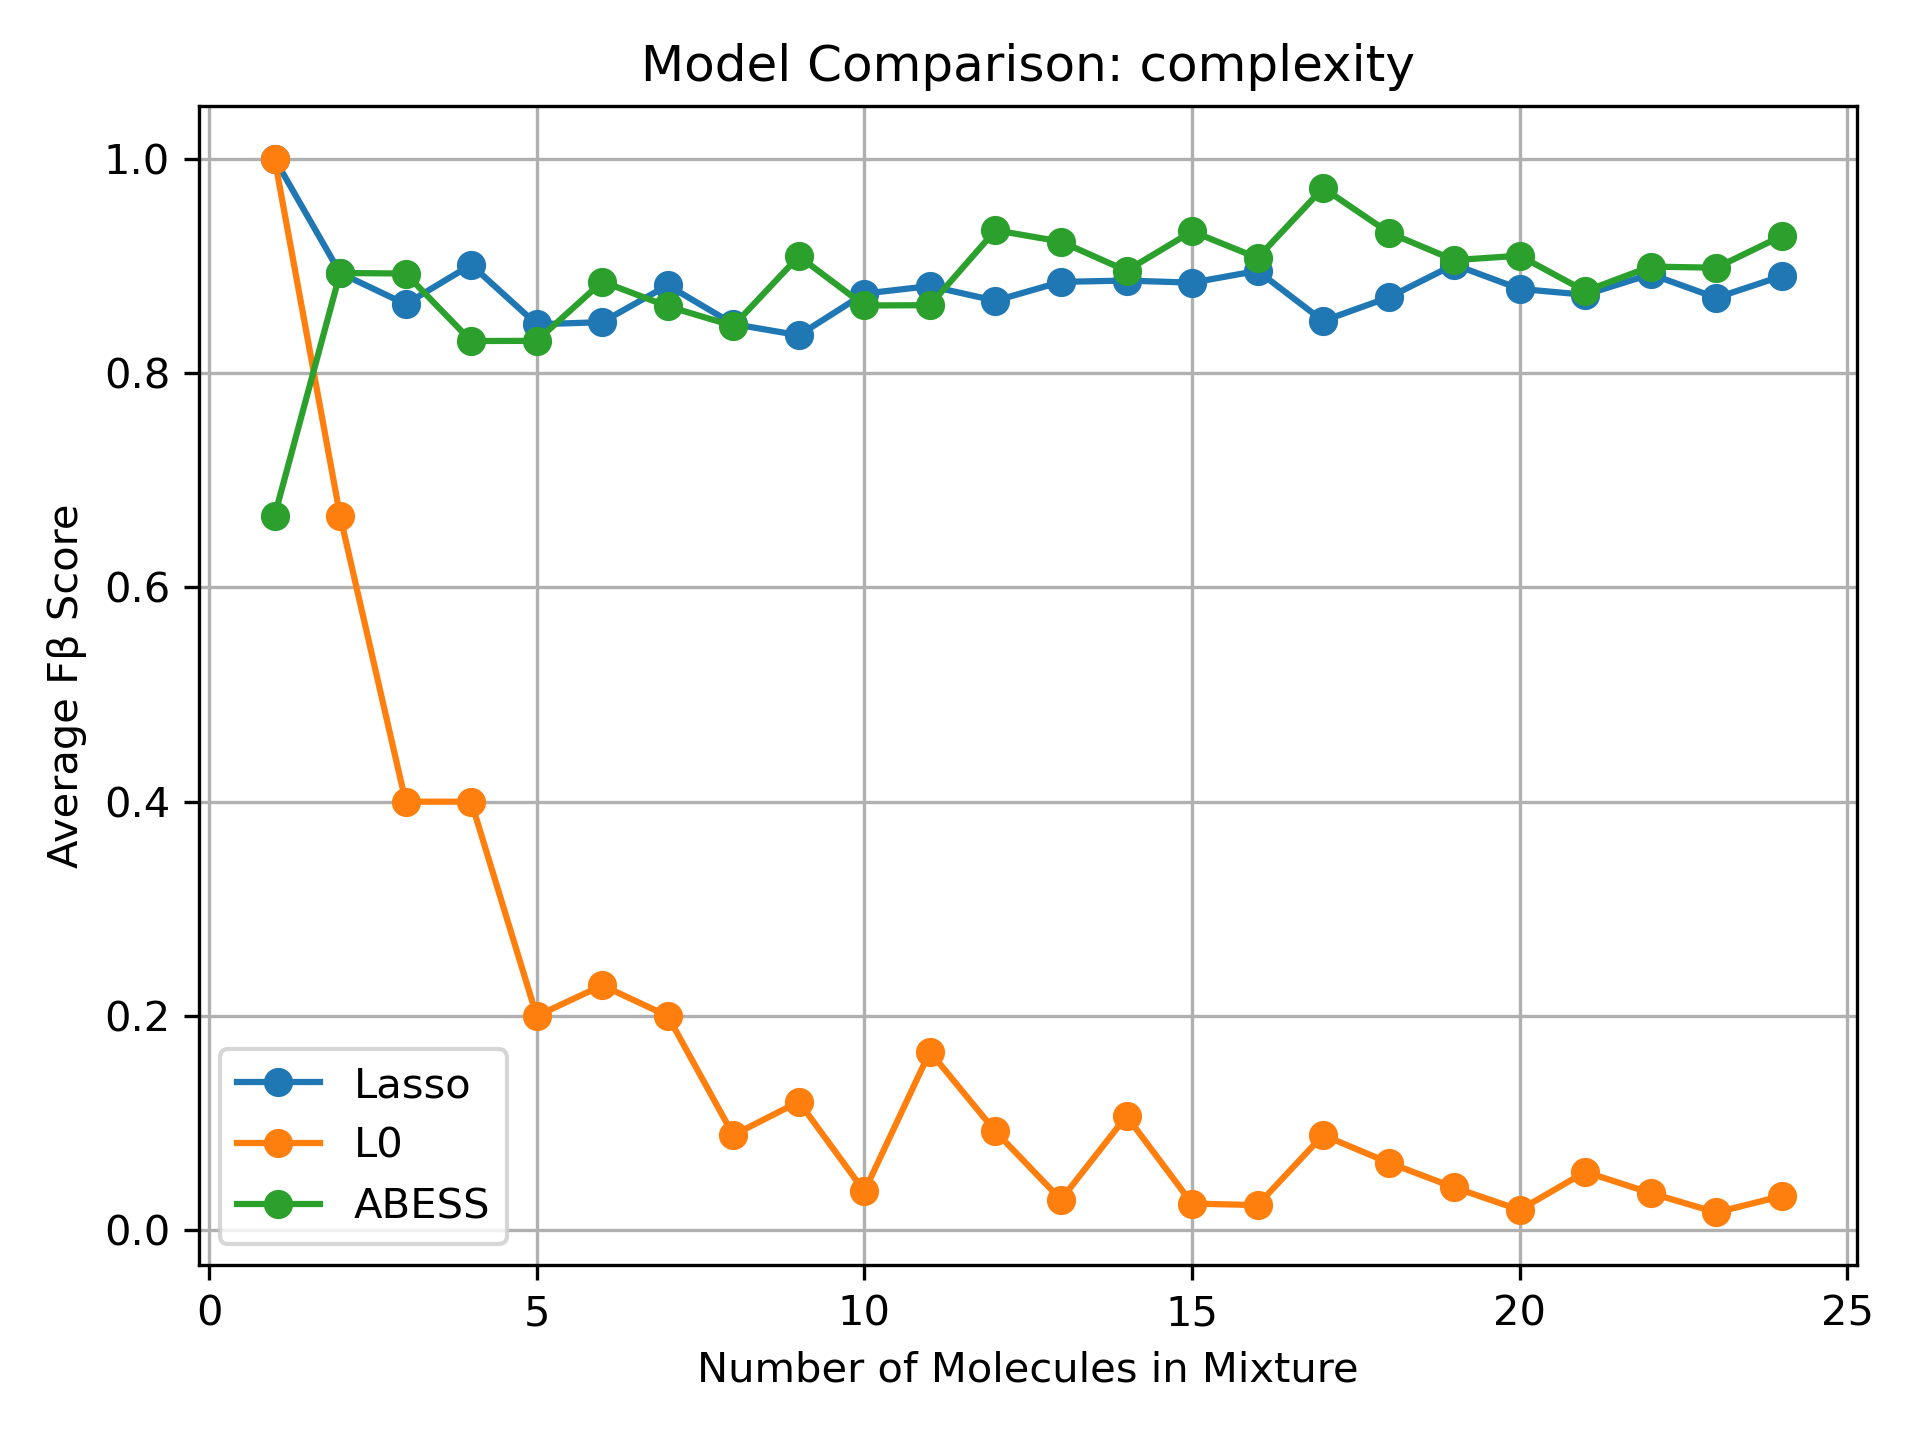
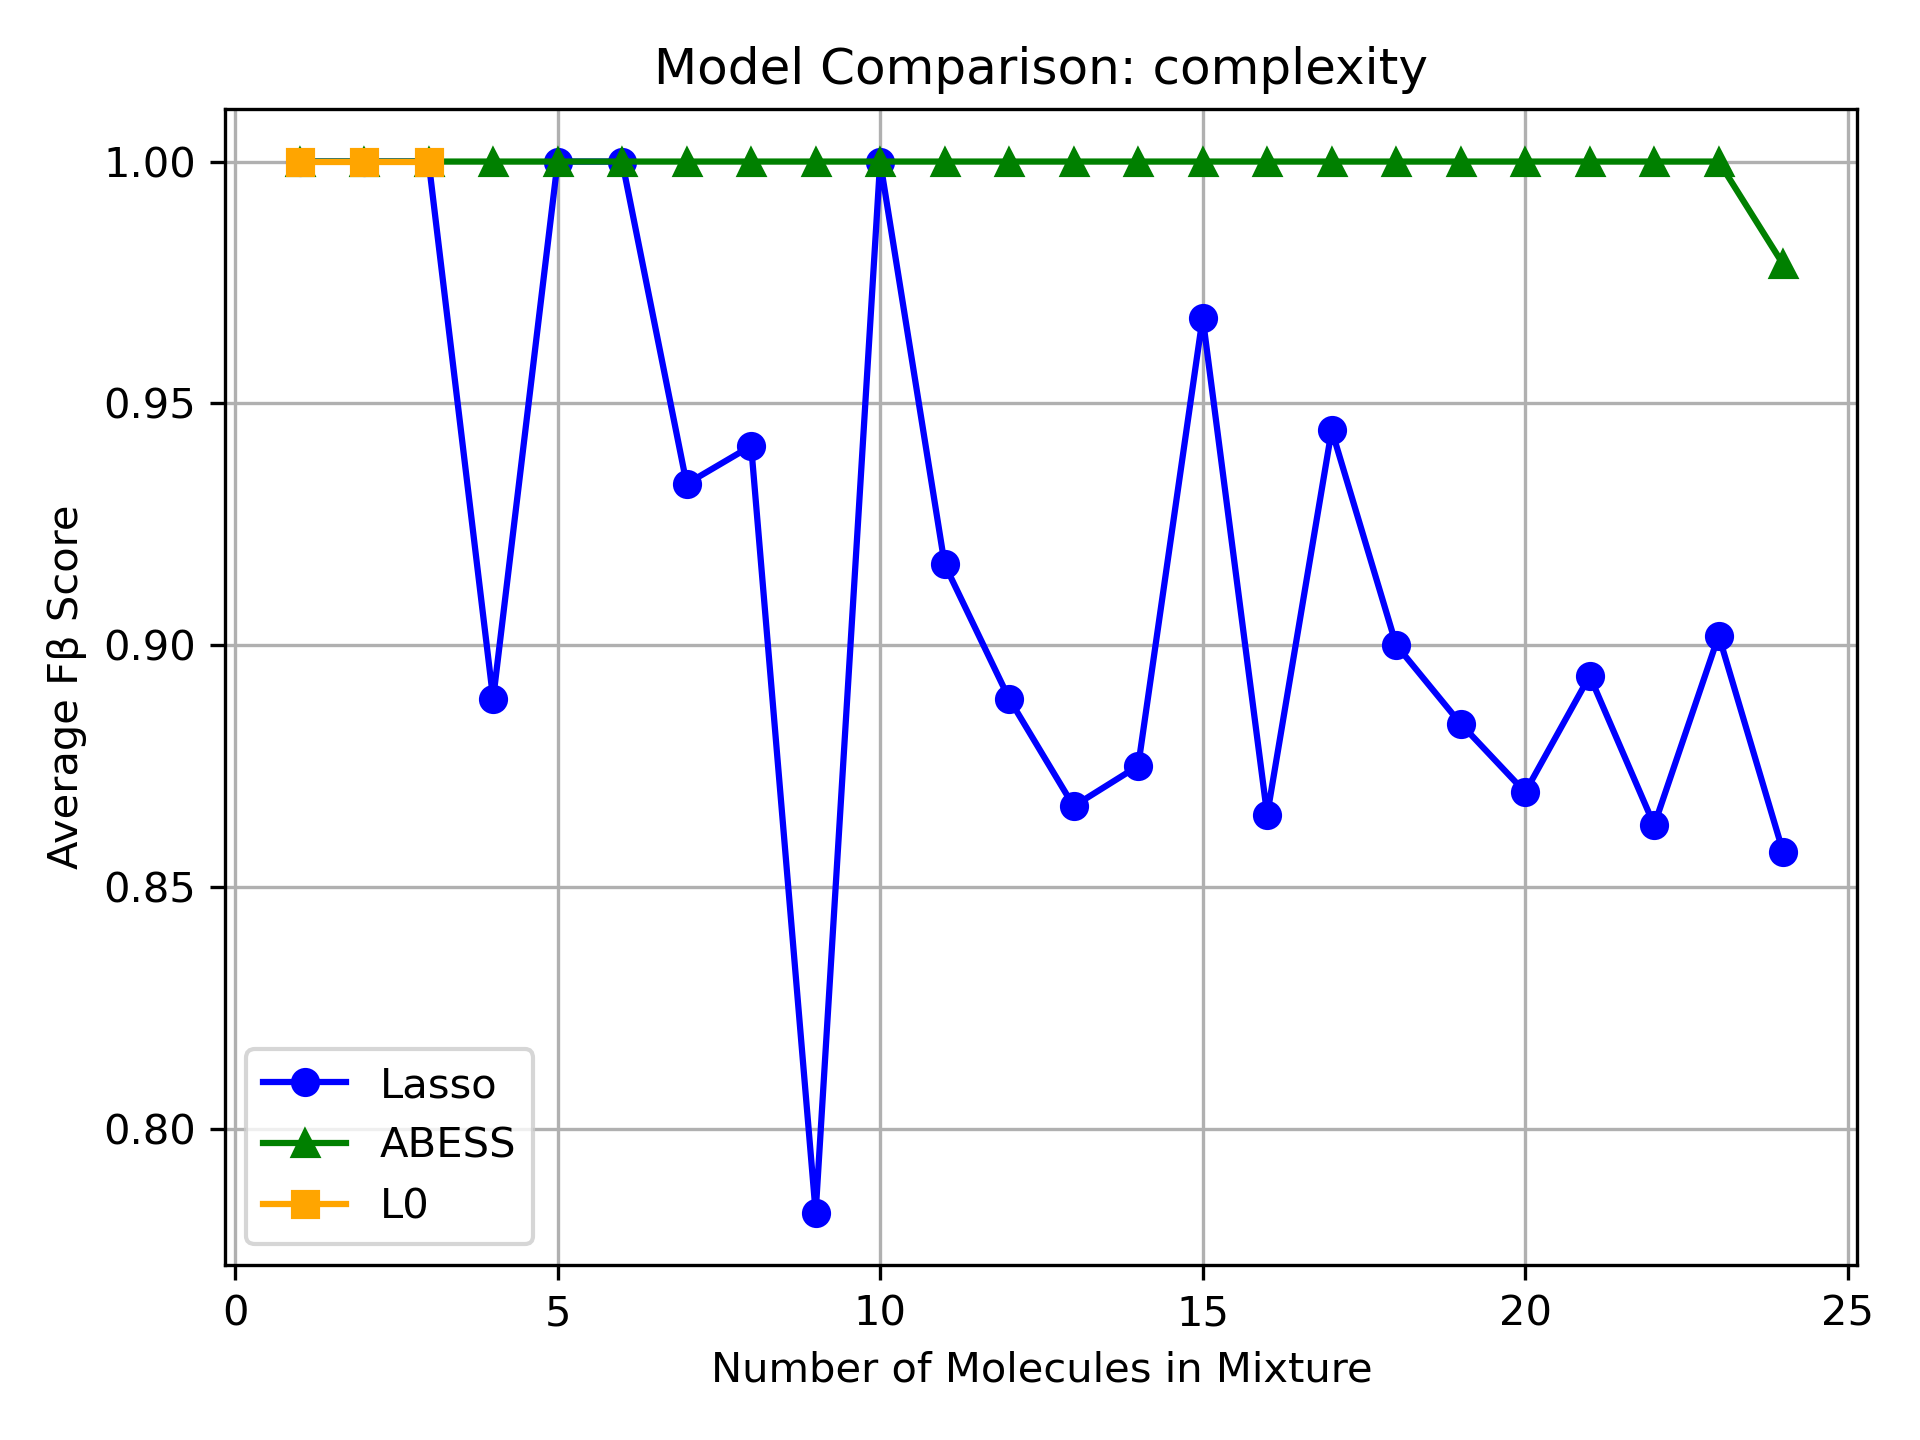
plot updates

diff --git a/Master_Test.py b/Master_Test.py
@@ -60,11 +60,10 @@ def safe_ABESS(A, b, threshold=1e-4):
     return [i for i, coef in result if abs(coef) > threshold]
 
 
-def run_single_trial(func, A, mode, x, SNR, COMPLEXITY, KNOWNPROPORTION):
+def run_single_trial(func, A, mode, x, COMPLEXITY):
     if mode == 'complexity':
         s, trueMols = GetSampleSpectrum(x, A)
-        b = AddNoise(SNR, s)
-        pred = func(A, b)
+        pred = func(A, s)
 
     elif mode == 'snr':
         s, trueMols = GetSampleSpectrum(COMPLEXITY, A)
@@ -74,9 +73,8 @@ def run_single_trial(func, A, mode, x, SNR, COMPLEXITY, KNOWNPROPORTION):
     elif mode == 'library_size':
         full_indices = np.random.choice(A.shape[1], size=x, replace=False)
         A_crop = A[:, full_indices]
-        s, trueMols = GetSampleSpectrum(3, A_crop)
-        b = AddNoise(SNR, s)
-        pred = func(A_crop, b)
+        s, trueMols = GetSampleSpectrum(COMPLEXITY, A_crop)
+        pred = func(A_crop, s)
         trueMols = [full_indices[i] for i in trueMols]
         pred = [full_indices[i] for i in pred]
 
@@ -85,17 +83,15 @@ def run_single_trial(func, A, mode, x, SNR, COMPLEXITY, KNOWNPROPORTION):
         weights = np.geomspace(1, 1/x, num=COMPLEXITY)
         weights /= weights.sum()
         s = A[:, indices] @ weights
-        b = AddNoise(SNR, s)
-        pred = func(A, b)
+        pred = func(A, s)
         trueMols = indices.tolist()
 
     elif mode == 'known_proportion':
-        known_size = int(KNOWNPROPORTION * A.shape[1])
+        known_size = int(x * A.shape[1])
         known_indices = np.random.choice(A.shape[1], size=int(x * A.shape[1]), replace=False)
         A_known = A[:, known_indices]
         s, trueMols = GetSampleSpectrum(COMPLEXITY, A)
-        b = AddNoise(SNR, s)
-        pred = func(A_known, b)
+        pred = func(A_known, s)
         trueMols_in_known = [i for i in trueMols if i in known_indices]
         pred = [known_indices[i] for i in pred]
         trueMols = trueMols_in_known
@@ -107,7 +103,7 @@ def run_single_trial(func, A, mode, x, SNR, COMPLEXITY, KNOWNPROPORTION):
 def master_plot(spectralMatrix, mode='complexity', x_values=None, num_trials=5):
     methods = {
         "Lasso": lambda A, b: [i for i, v in enumerate(Lasso_L1(A, b, alpha=0.00001)) if v > 1e-4],
-        "L0": lambda A, b: [i for i, v in enumerate(L_Zero(A, b, max_support=MAX_SUPPORT_L0)) if v > 1e-4],
+        "L0": lambda A, b: [i for i, v in enumerate(L_Zero(A, b, criterion='AIC', max_support=MAX_SUPPORT_L0)) if v > 1e-4],
         "ABESS": safe_ABESS
     }
 
@@ -115,8 +111,6 @@ def master_plot(spectralMatrix, mode='complexity', x_values=None, num_trials=5):
     SNR = 10000
     COMPLEXITY = 5
     LIBRARYSIZE = spectralMatrix.shape[1]
-    CONCENTRATIONS = 1
-    KNOWNPROPORTION = 1
 
     if x_values is None:
         if mode == 'complexity':
@@ -143,22 +137,17 @@ def master_plot(spectralMatrix, mode='complexity', x_values=None, num_trials=5):
 
             if method in ["ABESS", "L0"]:
                 scores = Parallel(n_jobs=-1)(
-                    delayed(run_single_trial)(func, spectralMatrix, mode, x, SNR, COMPLEXITY, KNOWNPROPORTION)
+                    delayed(run_single_trial)(func, spectralMatrix, mode, x, COMPLEXITY)
                     for _ in range(num_trials)
                 )
             else:  # Lasso or any fast method
                 scores = [
-                    run_single_trial(func, spectralMatrix, mode, x, SNR, COMPLEXITY, KNOWNPROPORTION)
+                    run_single_trial(func, spectralMatrix, mode, x, COMPLEXITY)
                     for _ in range(num_trials)
                 ]
 
             results[method].append(np.mean(scores))
-
-
-    # Plotting
-    for method in methods:
-        plt.plot(x_values, results[method], label=method, marker='o')
-
+# plotting
     xlabel = {
         'complexity': "Number of Molecules in Mixture",
         'snr': "Signal-to-Noise Ratio",
@@ -167,14 +156,40 @@ def master_plot(spectralMatrix, mode='complexity', x_values=None, num_trials=5):
         'known_proportion': "Proportion of Known Molecules in Library"
     }[mode]
 
+
+    plot_styles = {
+    "Lasso": {'color': 'blue', 'marker': 'o', 'markersize': 6},
+    "ABESS": {'color': 'green', 'marker': '^', 'markersize': 6},
+    "L0": {'color': 'orange', 'marker': 's', 'markersize': 6}
+}
+
+    # Ensure L0 is plotted last for visibility
+    method_order = ["Lasso", "ABESS", "L0"]
+    for method in method_order:
+        y = results[method]
+        x_filtered = [x for x, v in zip(x_values, y) if not np.isnan(v)]
+        y_filtered = [v for v in y if not np.isnan(v)]
+
+        style = plot_styles[method]
+        plt.plot(
+            x_filtered, y_filtered,
+            label=method,
+            linestyle='-' if len(x_filtered) > 1 else 'None',
+            zorder=3 if method == "L0" else 2,
+            **style
+        )
+    # Create clean legend from unique method labels
+    handles, labels = plt.gca().get_legend_handles_labels()
+    unique = dict(zip(labels, handles))  # Removes duplicates while preserving last handle
+    plt.legend(unique.values(), unique.keys())
     plt.xlabel(xlabel)
     plt.ylabel("Average Fβ Score")
     plt.title(f"Model Comparison: {mode}")
     plt.grid(True)
     plt.legend()
     plt.tight_layout()
-    plt.show()
     plt.savefig("Models_test.png", dpi=300)
+    plt.show()
 
 
 def main():

diff --git a/MS_Inversion_Toy.py b/MS_Inversion_Toy.py
@@ -108,6 +108,8 @@ def L_Zero(matrix, spectra, criterion='AIC', max_support=4, n_jobs=-1):
     if best_combo is not None:
         x_full[np.array(best_combo)] = best_factors
 
+    print("L0 ran")
+
     return x_full
 
 
@@ -135,6 +137,8 @@ def Lasso_L1(matrix, spectra, alpha):
 
     # Compute R^2 manually
     r2 = r2_score(spectra, y_hat)
+
+    print("Lasso ran")
 
     return x_hat
 
